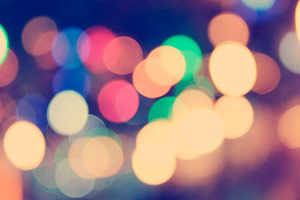
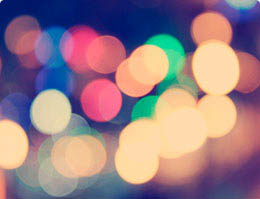
gallery grid done for big screens

diff --git a/src/blocks/modules/gallery/gallery.scss b/src/blocks/modules/gallery/gallery.scss
@@ -1,9 +1,45 @@
 .gallery{
-   display: flex;
-   flex-wrap: wrap;
+   display: grid;
+   grid-template-columns: 1fr 1fr 1fr 1fr;
+   grid-template-rows: 1fr 1fr;
+   grid-gap: 20px;
+   @media(max-width: $smDesktopWidth) {
+      grid-template-columns: 1fr 1fr 1fr;
+      grid-template-rows: auto;
+      grid-column-gap: 15px;
+   }
+   @media(max-width: $tableWidth) {
+      grid-template-columns: 1fr 1fr;
+      grid-template-rows: auto;
+      grid-column-gap: 15px;
+   }
+}
+.gallery__item{
+   @include flexCol;
+   justify-self: center;
+   max-height: 250px;
+   border-radius: 5px;
+
 }
 .gallery__pic{
-   width: 260px;
-   height: 200px;
+   img{
+      width: 100%;
+      height: 100%;
+      border-top-right-radius: 5px;
+      border-top-left-radius: 5px;
+   }
+   max-width: 260px;
+   max-height: 200px;
    overflow: hidden;
+}
+.gallery__name{
+   display: flex;
+   justify-content: center;
+   align-items: center;
+   width: 100%;
+   height: 50px;
+   background-color: $color-base-text;
+   color: $color-text-dark;
+   border-bottom-left-radius: 5px;
+   border-bottom-right-radius: 5px;
 }

diff --git a/src/styles/general/_base.scss b/src/styles/general/_base.scss
@@ -37,7 +37,7 @@ ul {
 
 .wrap {
    // min-height: 100vh;
-   height: 100vh;
+   min-height: 100vh;
    color: $color-base-text;
    z-index: -1;
    &--header{
@@ -53,7 +53,6 @@ ul {
       background: 
          url('/img/bg-green-wave.png') 100% 40% no-repeat $color-green-tone;
    }
-
    &--red {
       background: 
          url('/img/bg-red-wave.png') no-repeat $color-red-tone;

diff --git a/src/styles/helpers/_variables.scss b/src/styles/helpers/_variables.scss
@@ -7,6 +7,7 @@ $smPhoneWidth : 320px;
 
 // Colors
 $color-base-text: #ffffff;
+$color-text-dark: #727272;
 // $color-red-tone: #c8535a;
 $color-red-tone: #b24a50;
 $color-red-card: rgba(200, 83, 90, 0.8);

diff --git a/src/blocks/modules/work/work.scss b/src/blocks/modules/work/work.scss
@@ -1,3 +1,6 @@
+.work{
+	padding-bottom: 40px;
+}
 .work__title{
 	@include blockTitle;
 }
